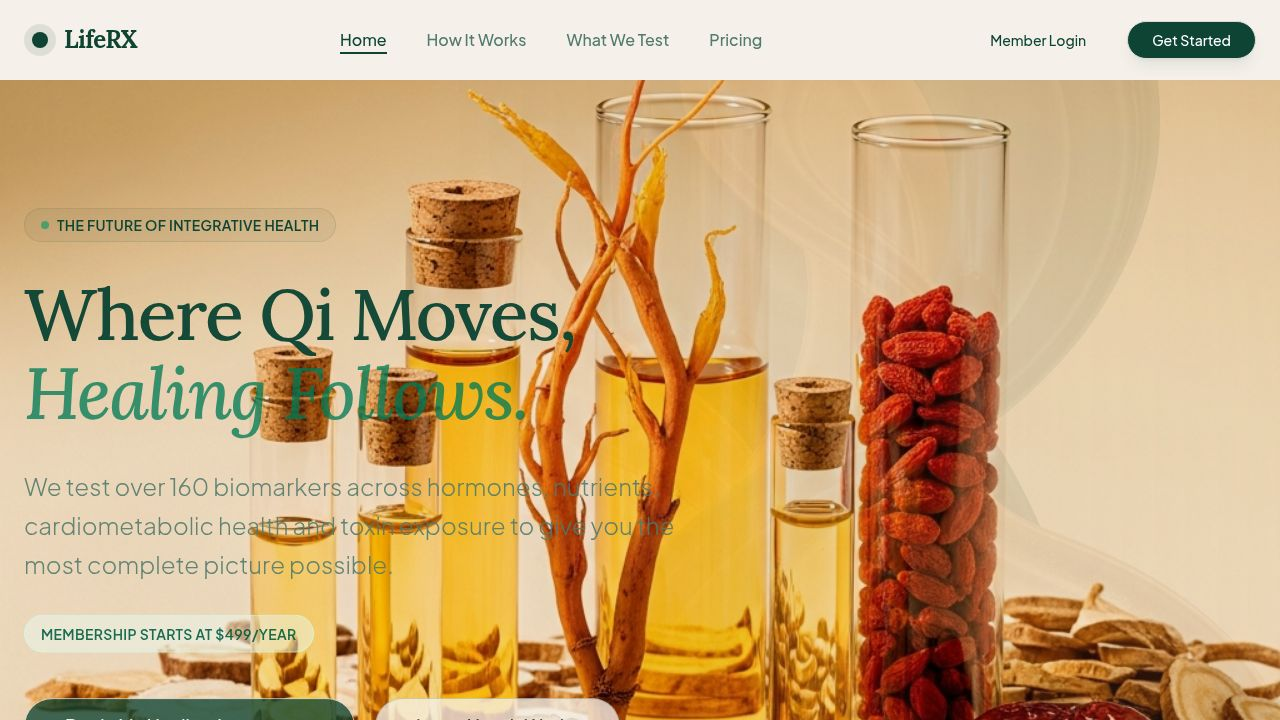
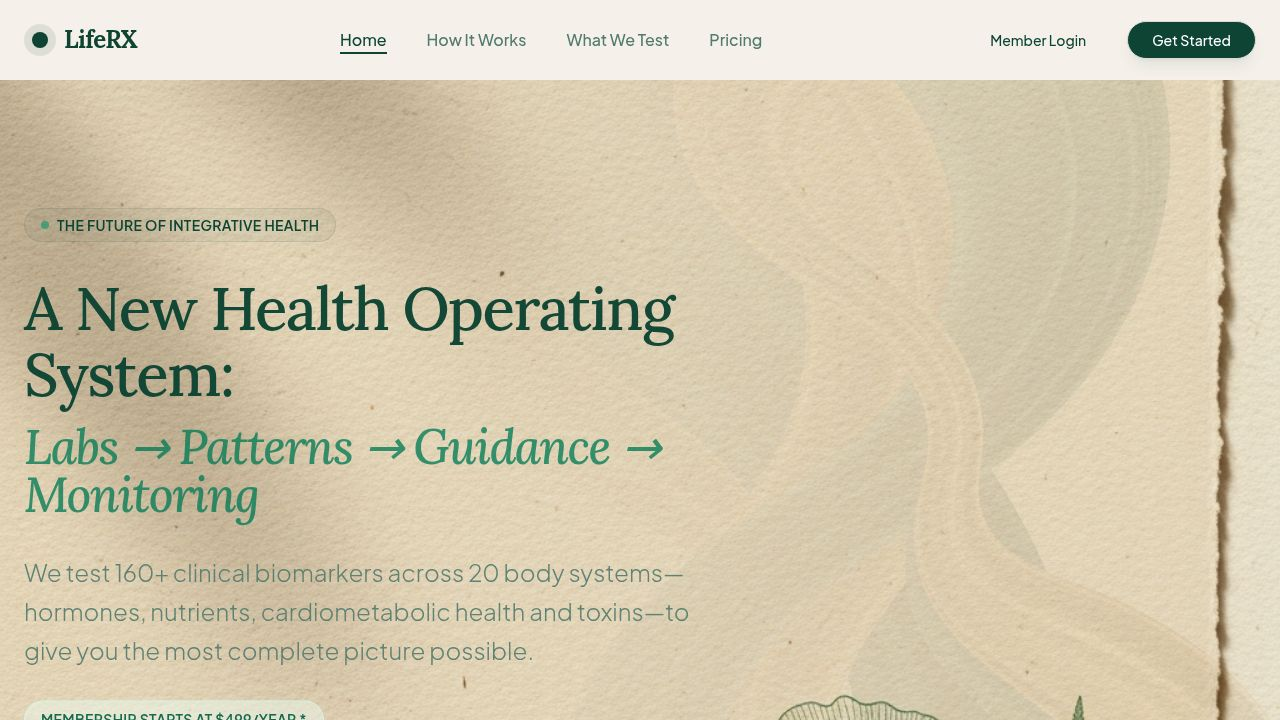
Update landing page with new health system and pricing details
Refactor Home page component to update hero section headline and sub-headline, add pricing tooltip, and adjust CTA buttons. Update Footer component with company name and link.

Replit-Commit-Author: Agent
Replit-Commit-Session-Id: 28a8245b-d802-4c3e-883f-4375597e8960
Replit-Commit-Checkpoint-Type: full_checkpoint
Replit-Commit-Event-Id: 62df67e8-45d1-4b19-84c3-27cf54012f38
Replit-Commit-Screenshot-Url: https://storage.googleapis.com/screenshot-production-us-central1/1ef04385-f7ad-468b-8388-86c7915e1c30/28a8245b-d802-4c3e-883f-4375597e8960/KeOnVRf
Replit-Helium-Checkpoint-Created: true

diff --git a/client/src/pages/Home.tsx b/client/src/pages/Home.tsx
@@ -39,29 +39,32 @@ export default function Home() {
               THE FUTURE OF INTEGRATIVE HEALTH
             </span>
             
-            <h1 className="text-5xl md:text-7xl font-serif font-medium text-primary mb-8 leading-[1.1] animate-in fade-in slide-in-from-bottom-8 duration-700 delay-100">
-              Where Qi Moves, <br/>
-              <span className="italic text-emerald-700/80">Healing Follows.</span>
+            <h1 className="text-4xl md:text-6xl font-serif font-medium text-primary mb-8 leading-[1.1] animate-in fade-in slide-in-from-bottom-8 duration-700 delay-100">
+              A New Health Operating System:<br/>
+              <span className="italic text-emerald-700/80 text-3xl md:text-5xl block mt-4">Labs → Patterns → Guidance → Monitoring</span>
             </h1>
             
             <p className="text-xl md:text-2xl text-muted-foreground max-w-2xl mb-8 leading-relaxed animate-in fade-in slide-in-from-bottom-8 duration-700 delay-200 font-light">
-              We test over 160 biomarkers across hormones, nutrients, cardiometabolic health and toxin exposure to give you the most complete picture possible.
+              We test 160+ clinical biomarkers across 20 body systems—hormones, nutrients, cardiometabolic health and toxins—to give you the most complete picture possible.
             </p>
 
-            <div className="flex items-center gap-3 mb-10 text-emerald-800 bg-emerald-50/50 w-fit px-4 py-2 rounded-full border border-emerald-100 animate-in fade-in slide-in-from-bottom-4 duration-700 delay-200">
-               <span className="font-semibold text-sm tracking-wide">MEMBERSHIP STARTS AT $499/YEAR</span>
+            <div className="group relative flex items-center gap-3 mb-10 text-emerald-800 bg-emerald-50/50 w-fit px-4 py-2 rounded-full border border-emerald-100 animate-in fade-in slide-in-from-bottom-4 duration-700 delay-200 cursor-help">
+               <span className="font-semibold text-sm tracking-wide">MEMBERSHIP STARTS AT $499/YEAR *</span>
+               <div className="absolute left-0 bottom-full mb-2 w-64 bg-white p-3 rounded-lg shadow-xl border border-border opacity-0 group-hover:opacity-100 transition-opacity text-xs text-muted-foreground pointer-events-none z-50">
+                 Includes 2 comprehensive lab panels/year, TCM pattern analysis, and dashboard access.
+               </div>
             </div>
             
             <div className="flex flex-col sm:flex-row items-center gap-5 animate-in fade-in slide-in-from-bottom-8 duration-700 delay-300">
               <Link href="/auth?signup=true">
                 <Button size="lg" className="h-14 px-10 text-lg rounded-full shadow-lg shadow-primary/20 hover:shadow-xl hover:shadow-primary/30 transition-all bg-primary hover:bg-primary/90">
-                  Begin My Healing Journey
+                  Join Core Plan
                   <ArrowRight className="ml-2 h-5 w-5" />
                 </Button>
               </Link>
-              <Link href="/how-it-works">
+              <Link href="/pricing">
                 <Button variant="outline" size="lg" className="h-14 px-10 text-lg rounded-full bg-background border-primary/20 text-primary hover:bg-background hover:border-primary/40 shadow-sm transition-all">
-                  Learn How It Works
+                  Explore Complete & Concierge
                 </Button>
               </Link>
             </div>
@@ -85,8 +88,8 @@ export default function Home() {
                 <div className="absolute inset-0 bg-gradient-to-t from-primary/90 via-primary/20 to-transparent flex items-end p-6 md:p-10">
                   <div className="text-white">
                     <div className="bg-white/20 backdrop-blur-md px-3 py-1 rounded-full inline-block text-sm font-medium mb-2 md:mb-3 border border-white/30">Western Science</div>
-                    <h3 className="text-2xl md:text-3xl font-serif mb-2 md:mb-3">160+ Biomarker Lab Panel</h3>
-                    <p className="text-white/90 leading-relaxed font-light text-sm md:text-base">Far beyond a standard annual checkup. We test hormones, thyroid, nutrients, metabolic health, and heavy metals with clinical precision.</p>
+                    <h3 className="text-2xl md:text-3xl font-serif mb-2 md:mb-3">Comprehensive Diagnostics</h3>
+                    <p className="text-white/90 leading-relaxed font-light text-sm md:text-base">160+ biomarkers across 20 body systems. We re-test every 6 months to track improvements, with an 80+ biomarker panel at the mid-year mark.</p>
                   </div>
                 </div>
              </div>
@@ -122,7 +125,18 @@ export default function Home() {
                   </div>
                   <div>
                     <h4 className="text-2xl font-serif text-primary mb-3">TCM Pattern Diagnosis</h4>
-                    <p className="text-muted-foreground leading-relaxed text-lg">Our practitioners analyze your tongue, pulse, and symptoms to identify patterns like <span className="text-[hsl(2,35%,54%)] font-medium">"Blood Deficiency"</span> or <span className="text-emerald-700 font-medium">"Liver Stagnation"</span>.</p>
+                    <p className="text-muted-foreground leading-relaxed text-lg">
+                      We layer Traditional Chinese Medicine assessments on top of your labs:
+                    </p>
+                    <ul className="list-disc list-inside mt-2 text-muted-foreground text-base space-y-1 ml-1">
+                      <li>Tongue Analysis (Organ health)</li>
+                      <li>Pulse Intake (Energy flow)</li>
+                      <li>Symptom Pattern Mapping</li>
+                      <li>Constitutional Typing</li>
+                    </ul>
+                    <p className="text-sm text-emerald-700 mt-4 bg-emerald-50 p-2 rounded-lg inline-block border border-emerald-100">
+                      * WHO: ~80% of the world relies on traditional medicine.
+                    </p>
                   </div>
                 </div>
                 
@@ -168,10 +182,26 @@ export default function Home() {
              </div>
              <div className="w-full lg:w-1/2 space-y-8">
                 <div>
-                  <h2 className="text-4xl md:text-5xl font-serif text-primary mb-6">Ancient Formulas.<br/>Modern Context.</h2>
+                  <h2 className="text-4xl md:text-5xl font-serif text-primary mb-6">Formula Intelligence & <br/>Botanical Fulfillment (Premium)</h2>
                   <p className="text-xl text-muted-foreground font-light leading-relaxed">
-                    We don't sell products. We provide understanding. Our platform overlays 2,000 years of herbal data onto your modern lab results.
+                    Two layers of support:
                   </p>
+                  <ul className="space-y-4 mt-4 text-muted-foreground">
+                    <li className="flex gap-3">
+                      <div className="w-6 h-6 rounded-full bg-primary/10 flex items-center justify-center text-primary text-xs font-bold shrink-0">1</div>
+                      <p><span className="font-bold text-primary">Educational Overlay (All Tiers):</span> Map lab patterns to classical formulas to see how ancient remedies align with modern findings.</p>
+                    </li>
+                    <li className="flex gap-3">
+                      <div className="w-6 h-6 rounded-full bg-primary/10 flex items-center justify-center text-primary text-xs font-bold shrink-0">2</div>
+                      <p><span className="font-bold text-primary">Practitioner-Guided Fulfillment (Complete+):</span> Optional monthly herbal formulations executed only after diagnosis.</p>
+                    </li>
+                  </ul>
+                  
+                  <div className="pt-6">
+                    <Link href="/pricing">
+                      <Button className="rounded-full px-8 shadow-md">Upgrade for Personalized Support</Button>
+                    </Link>
+                  </div>
                 </div>
 
                 <div className="space-y-4">
@@ -212,6 +242,74 @@ export default function Home() {
         </div>
       </section>
 
+      {/* Pricing Tiers */}
+      <section className="py-24 bg-white">
+        <div className="container mx-auto px-6">
+          <div className="text-center mb-16">
+            <h2 className="text-4xl font-serif text-primary mb-6">Plans & Pricing</h2>
+            <p className="text-lg text-muted-foreground max-w-2xl mx-auto">
+              Choose the level of guidance that fits your journey.
+            </p>
+          </div>
+          
+          <div className="grid grid-cols-1 md:grid-cols-3 gap-8 max-w-6xl mx-auto">
+            {/* Core */}
+            <Card className="border border-border shadow-sm hover:shadow-lg transition-all rounded-[2rem] overflow-hidden">
+              <CardContent className="p-8 flex flex-col h-full">
+                <h3 className="text-2xl font-serif text-primary mb-2">Core</h3>
+                <div className="text-3xl font-bold text-primary mb-6">$499<span className="text-lg text-muted-foreground font-normal">/year</span></div>
+                <div className="space-y-4 flex-1">
+                  <p className="text-sm font-bold text-primary">Includes:</p>
+                  <ul className="space-y-3 text-sm text-muted-foreground">
+                    <li className="flex gap-2"><Check className="h-4 w-4 text-emerald-600 shrink-0" /> 2 Comprehensive Lab Panels</li>
+                    <li className="flex gap-2"><Check className="h-4 w-4 text-emerald-600 shrink-0" /> TCM Pattern Analysis</li>
+                    <li className="flex gap-2"><Check className="h-4 w-4 text-emerald-600 shrink-0" /> Dashboard Access</li>
+                    <li className="flex gap-2"><Check className="h-4 w-4 text-emerald-600 shrink-0" /> Formula Educational Overlay</li>
+                  </ul>
+                </div>
+                <Button className="w-full mt-8 rounded-full" variant="outline">Select Core</Button>
+              </CardContent>
+            </Card>
+
+            {/* Complete */}
+            <Card className="border-2 border-primary/20 shadow-xl bg-primary/5 rounded-[2rem] overflow-hidden relative">
+              <div className="absolute top-0 inset-x-0 bg-primary text-white text-center text-xs font-bold py-1 uppercase tracking-wider">Most Popular</div>
+              <CardContent className="p-8 pt-10 flex flex-col h-full">
+                <h3 className="text-2xl font-serif text-primary mb-2">Complete</h3>
+                <div className="text-3xl font-bold text-primary mb-6">$799<span className="text-lg text-muted-foreground font-normal">/year</span></div>
+                <div className="space-y-4 flex-1">
+                  <p className="text-sm font-bold text-primary">Everything in Core, plus:</p>
+                  <ul className="space-y-3 text-sm text-muted-foreground">
+                    <li className="flex gap-2"><Check className="h-4 w-4 text-emerald-600 shrink-0" /> Botanical Fulfillment Access</li>
+                    <li className="flex gap-2"><Check className="h-4 w-4 text-emerald-600 shrink-0" /> 2 Practitioner Consults</li>
+                    <li className="flex gap-2"><Check className="h-4 w-4 text-emerald-600 shrink-0" /> Seasonal Protocol Adjustments</li>
+                  </ul>
+                </div>
+                <Button className="w-full mt-8 rounded-full">Select Complete</Button>
+              </CardContent>
+            </Card>
+
+            {/* Concierge */}
+            <Card className="border border-border shadow-sm hover:shadow-lg transition-all rounded-[2rem] overflow-hidden">
+              <CardContent className="p-8 flex flex-col h-full">
+                <h3 className="text-2xl font-serif text-primary mb-2">Concierge</h3>
+                <div className="text-3xl font-bold text-primary mb-6">$1,499<span className="text-lg text-muted-foreground font-normal">/year</span></div>
+                <div className="space-y-4 flex-1">
+                  <p className="text-sm font-bold text-primary">Everything in Complete, plus:</p>
+                  <ul className="space-y-3 text-sm text-muted-foreground">
+                    <li className="flex gap-2"><Check className="h-4 w-4 text-emerald-600 shrink-0" /> Quarterly Testing (4x/yr)</li>
+                    <li className="flex gap-2"><Check className="h-4 w-4 text-emerald-600 shrink-0" /> Dedicated Health Manager</li>
+                    <li className="flex gap-2"><Check className="h-4 w-4 text-emerald-600 shrink-0" /> Priority Support</li>
+                    <li className="flex gap-2"><Check className="h-4 w-4 text-emerald-600 shrink-0" /> 10% off Formulas</li>
+                  </ul>
+                </div>
+                <Button className="w-full mt-8 rounded-full" variant="outline">Select Concierge</Button>
+              </CardContent>
+            </Card>
+          </div>
+        </div>
+      </section>
+
       {/* Comparison / Why LifeRX */}
       <section className="py-24 bg-secondary/20">
         <div className="container mx-auto px-6">
@@ -222,31 +320,39 @@ export default function Home() {
             </p>
           </div>
 
-          <div className="max-w-4xl mx-auto bg-white rounded-[2rem] shadow-xl overflow-hidden border border-border">
+          <div className="max-w-6xl mx-auto bg-white rounded-[2rem] shadow-xl overflow-hidden border border-border">
              <div className="overflow-x-auto">
-               <div className="min-w-[600px]">
-                 <div className="grid grid-cols-4 bg-primary/5 p-6 border-b border-border text-primary font-bold font-serif text-lg">
+               <div className="min-w-[800px]">
+                 <div className="grid grid-cols-6 bg-primary/5 p-6 border-b border-border text-primary font-bold font-serif text-lg">
                     <div className="col-span-1"></div>
-                    <div className="col-span-1 text-center">Standard GP</div>
-                    <div className="col-span-1 text-center">Function Health</div>
-                    <div className="col-span-1 text-center text-emerald-700 bg-white rounded-lg py-1 shadow-sm">LifeRX</div>
+                    <div className="col-span-1 text-center text-base">Standard GP</div>
+                    <div className="col-span-1 text-center text-base">Function Health</div>
+                    <div className="col-span-1 text-center text-base">Empirical Health</div>
+                    <div className="col-span-1 text-center text-base">Balanced Thistle</div>
+                    <div className="col-span-1 text-center text-emerald-700 bg-white rounded-lg py-1 shadow-sm text-base">LifeRX</div>
                  </div>
                  
                  <div className="divide-y divide-border/50">
                    {[
-                     { label: "Biomarkers Tested", gp: "~20-40", fh: "100+", lrx: "160+" },
-                     { label: "TCM Pattern Diagnosis", gp: false, fh: false, lrx: true },
-                     { label: "Herbal Protocols", gp: false, fh: false, lrx: true },
-                     { label: "Clinician Review", gp: "15 min", fh: "Detailed", lrx: "Detailed + Holistic" },
-                     { label: "Retesting Frequency", gp: "Annual", fh: "Every 6 mo", lrx: "Every 6 mo" },
+                     { label: "Biomarkers", gp: "~20-40", fh: "100+", eh: "Broad", bt: "Varies", lrx: "160+" },
+                     { label: "TCM Diagnostics", gp: false, fh: false, eh: false, bt: true, lrx: true },
+                     { label: "Interpretation", gp: "Basic", fh: "Labs Only", eh: "Medical", bt: "TCM Only", lrx: "Integrated" },
+                     { label: "Botanical Fulfillment", gp: false, fh: false, eh: false, bt: true, lrx: "Premium" },
+                     { label: "Scalable Platform", gp: true, fh: true, eh: true, bt: false, lrx: true },
                    ].map((row, i) => (
-                     <div key={i} className="grid grid-cols-4 p-6 items-center hover:bg-secondary/5 transition-colors">
-                        <div className="col-span-1 font-medium text-foreground">{row.label}</div>
+                     <div key={i} className="grid grid-cols-6 p-6 items-center hover:bg-secondary/5 transition-colors">
+                        <div className="col-span-1 font-medium text-foreground text-sm">{row.label}</div>
                         <div className="col-span-1 flex justify-center text-muted-foreground">
                           {row.gp === false ? <span className="text-red-300">✕</span> : row.gp === true ? <Check className="text-primary" /> : <span className="text-sm font-medium">{row.gp}</span>}
                         </div>
                         <div className="col-span-1 flex justify-center text-muted-foreground">
                            {row.fh === false ? <span className="text-red-300">✕</span> : row.fh === true ? <Check className="text-primary" /> : <span className="text-sm font-medium">{row.fh}</span>}
+                        </div>
+                        <div className="col-span-1 flex justify-center text-muted-foreground">
+                           {row.eh === false ? <span className="text-red-300">✕</span> : row.eh === true ? <Check className="text-primary" /> : <span className="text-sm font-medium">{row.eh}</span>}
+                        </div>
+                        <div className="col-span-1 flex justify-center text-muted-foreground">
+                           {row.bt === false ? <span className="text-red-300">✕</span> : row.bt === true ? <Check className="text-primary" /> : <span className="text-sm font-medium">{row.bt}</span>}
                         </div>
                         <div className="col-span-1 flex justify-center relative">
                            <div className="absolute inset-y-0 bg-primary/5 w-full -z-10" />
@@ -256,6 +362,14 @@ export default function Home() {
                    ))}
                  </div>
                </div>
+             </div>
+             
+             {/* Research Strip */}
+             <div className="bg-primary/5 p-6 border-t border-border grid grid-cols-1 md:grid-cols-2 gap-4 text-xs text-muted-foreground">
+                <p>• "Function Health runs 100+ lab tests..."</p>
+                <p>• "Balanced Thistle integrates acupuncture..."</p>
+                <p>• "Empirical Health delivers blood panels..."</p>
+                <p>• "WHO: 80% of the world uses traditional medicine."</p>
              </div>
           </div>
         </div>

diff --git a/client/src/components/layout/Footer.tsx b/client/src/components/layout/Footer.tsx
@@ -6,9 +6,12 @@ export function Footer() {
       <div className="container mx-auto px-4 py-12">
         <div className="grid grid-cols-1 md:grid-cols-4 gap-8">
           <div className="space-y-4">
-            <h3 className="text-xl font-serif font-bold text-primary">LifeRX</h3>
+            <h3 className="text-xl font-serif font-bold text-primary">LifeRX Future Co</h3>
             <p className="text-muted-foreground text-sm max-w-xs">
               Bridging the gap between modern diagnostics and ancient wisdom for a complete picture of your health.
+            </p>
+            <p className="text-xs text-muted-foreground font-medium pt-2 uppercase tracking-wider">
+              Live Platform Preview
             </p>
           </div>
           
@@ -16,6 +19,7 @@ export function Footer() {
             <h4 className="font-semibold mb-4 text-primary">Company</h4>
             <ul className="space-y-2 text-sm text-muted-foreground">
               <li><Link href="/about">About Us</Link></li>
+              <li><Link href="/fulfillment-philosophy">Why We Fulfill</Link></li>
               <li><Link href="/careers">Careers</Link></li>
               <li><Link href="/contact">Contact</Link></li>
             </ul>
